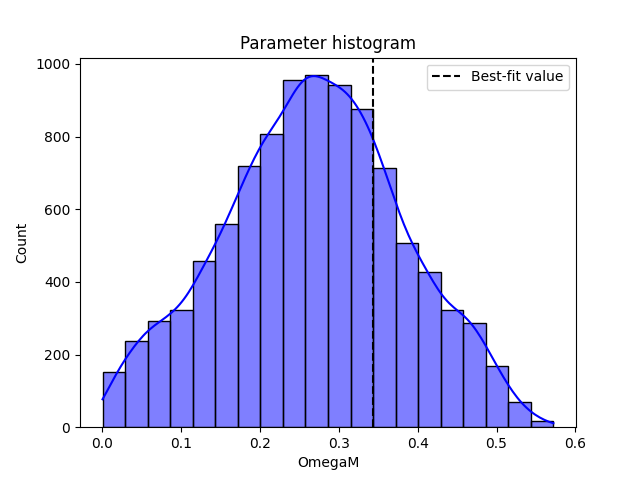
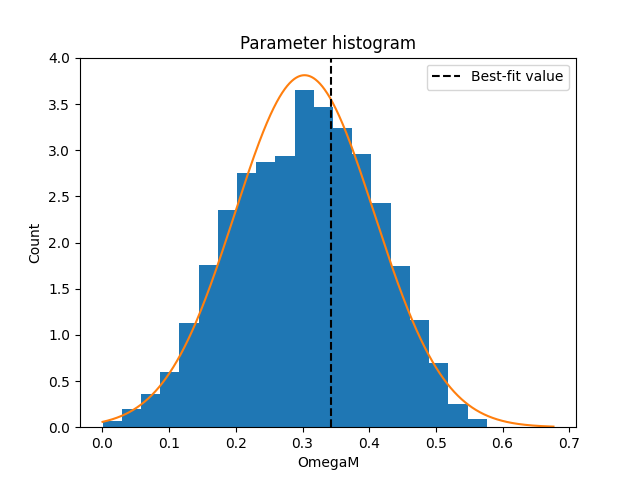
move redshift to common method, modify distribution plots

diff --git a/Milestone 1/milestone_1_data_science.py b/Milestone 1/milestone_1_data_science.py
@@ -1,19 +1,14 @@
+import sys
 from pathlib import Path
 
 import matplotlib.pyplot as plt
 import numpy as np
 import pandas as pd
-import seaborn as sns
 
+sys.path.append("..")
 import python_methods.constants as constants
 
 show_plots = False
-
-
-def redshift(x):
-    a = np.exp(x)
-    z = 1.0 / a - 1
-    return z
 
 
 cosmology_data_filename = Path("../results/cosmology.csv")
@@ -26,7 +21,7 @@ cosmology_df.columns = cosmology_df.columns.str.strip()
 print(cosmology_df)
 
 # make an array with redshifts, reverse it and cut it down to match with the input data
-z_array = redshift(cosmology_df.index.to_numpy())[::-1]
+z_array = constants.redshift(cosmology_df.index.to_numpy())[::-1]
 # print(f"{z_array=}")
 
 supernovadata = np.loadtxt(supernova_data_filename)
@@ -292,31 +287,38 @@ parameter_list = {
     "OmegaLambda": supernova_fitting_OmegaLambda,
 }
 for param_name, parameter_array in parameter_list.items():
-    print(param_name)
+    print(f"{param_name}")
     current_std = np.std(parameter_array)
-    print(current_std)
+    print(f"STD: {current_std:.5f}")
     current_mean = np.mean(parameter_array)
-    print(current_mean)
+    print(f"Mean: {current_mean:.5f}")
     current_variance = np.var(parameter_array)
     current_sigma = np.sqrt(current_variance)
     num_bins = 20
 
+    # +0.1 looks slightly better in plot
+    param_space_array = np.linspace(np.min(parameter_array), np.max(parameter_array) + 0.1, 1000)
+    gaussian_array = (1 / (current_sigma * np.sqrt(2 * np.pi))) * np.exp(
+        -(1 / 2) * (param_space_array - current_mean) ** 2 / (current_variance)
+    )
+
     # histogram of parameter selections
     fig = plt.figure()
     ax = fig.add_subplot(1, 1, 1)
-    # result = ax.hist(
-    #    parameter_array,
-    #    bins=num_bins,
-    #    density=True,
-    # )
+    result = ax.hist(
+        parameter_array,
+        bins=num_bins,
+        density=True,
+    )
 
-    # make gaussian plot
-    sns.histplot(parameter_array, bins=num_bins, kde=True, color="blue", common_norm=True, ax=ax)
+    # plot equivalent gaussian distribution
+    ax.plot(param_space_array, gaussian_array)
+
+    # make gaussian plot with seaborn
+    # sns.histplot(parameter_array, bins=num_bins, kde=True, color="blue", common_norm=True, ax=ax)
 
     ax.axvline(parameter_array[chi2_min_index], color="black", linestyle="dashed", label="Best-fit value")
 
-    # ax.set_yscale("log")
-    # ax.set_xscale("log")
     ax.set_xlabel(f"{param_name}")
     ax.set_ylabel("Count")
     ax.set_title(r"Parameter histogram")
@@ -324,5 +326,4 @@ for param_name, parameter_array in parameter_list.items():
     ax.legend()
     fig.savefig(plots_folder / f"{param_name}_histogram.png")
     if show_plots:
-        plt.show()
         plt.show()

diff --git a/python_methods/constants.py b/python_methods/constants.py
@@ -1,6 +1,16 @@
 import json
 from pathlib import Path
 
+import numpy as np
+
+
+def redshift(x):
+    a = np.exp(x)
+    z = 1.0 / a - 1
+    return z
+
+
+# fmt: off
 # Basic units (here we use SI)
 m           = 1.0                         # Length (in meters)
 s           = 1.0                         # Time (in seconds)
@@ -29,6 +39,7 @@ H0_over_h   = 100 * km/s/Mpc              # H0 / h
 epsilon_0   = 13.605693122994 * eV        # Ionization energy for the ground state of hydrogen
 xhi0        = 24.587387 * eV              # Ionization energy for neutral Helium
 xhi1        = 4.0 * epsilon_0             # Ionization energy for singly ionized Helium
+# fmt: on
 
 with Path.open(Path("../results/cosmology_params_today.json"), "r") as file_handle:
     input_cosmology_params_dict = json.load(file_handle)
